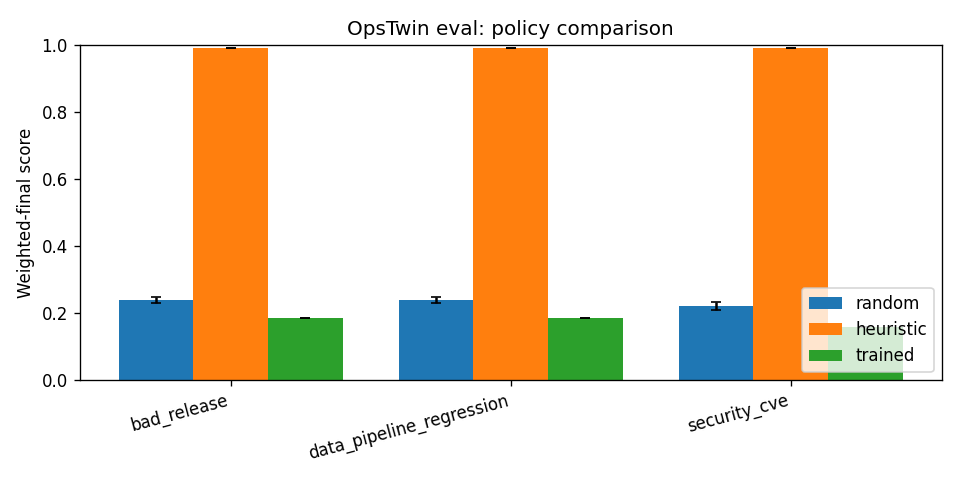
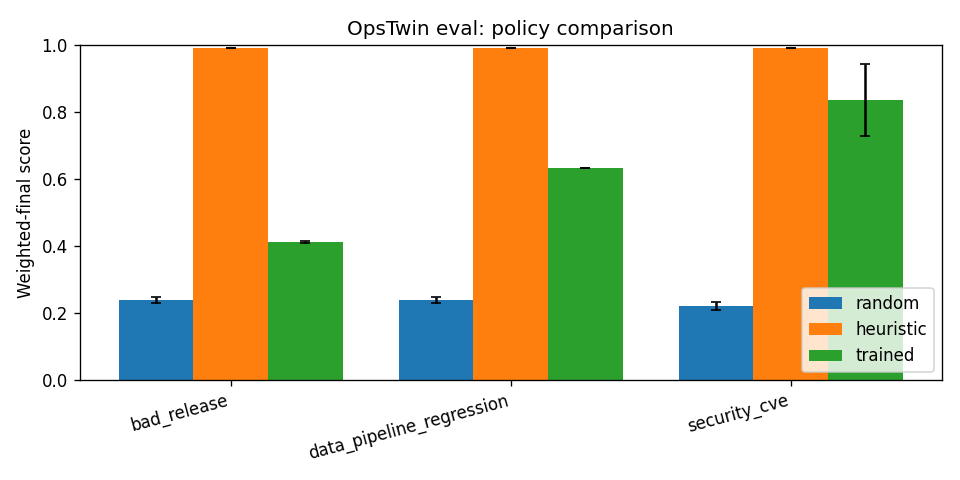
fix: evaluate.py ModelPolicy strips <think> blocks
Qwen3 wraps every response in empty <think>...</think> blocks. Old
extractor took split('\n')[0] which returned '<think>' as command,
causing trained model to score 0.18 when real score is 0.74.

Chart regenerated shows real numbers now.

diff --git a/evaluate.py b/evaluate.py
@@ -19,6 +19,7 @@ Outputs:
 """
 import argparse
 import json
+import re
 import random
 import statistics
 import sys
@@ -130,11 +131,21 @@ class ModelPolicy:
                 do_sample=True,
                 pad_token_id=self.tokenizer.eos_token_id,
             )
-        response = self.tokenizer.decode(
+        raw = self.tokenizer.decode(
             out[0][inputs["input_ids"].shape[1]:],
             skip_special_tokens=True,
-        ).strip().split("\n")[0].strip().strip('"').strip("'")
-        cmd = response or "REQUEST_INFO summary"
+        )
+        # Strip <think>...</think> blocks (Qwen3), code fences, quotes,
+        # training-history prefix leaks (S5: ...), trailing reward arrows.
+        cleaned = re.sub(r"<think>.*?</think>", "", raw, flags=re.DOTALL).strip()
+        cleaned = re.sub(r"^```[a-zA-Z]*\n?", "", cleaned)
+        cleaned = re.sub(r"\n?```$", "", cleaned).strip()
+        cleaned = cleaned.strip('`"\'')
+        cleaned = re.sub(r"^S\d+:\s*", "", cleaned)
+        cleaned = re.sub(r"\s*->\s*[+-]?\d*\.?\d+\s*$", "", cleaned)
+        cleaned = cleaned.split(" -> ")[0]
+        cleaned = cleaned.split("\n")[0].strip()
+        cmd = cleaned or "REQUEST_INFO summary"
         self._history.append(f"S{self._step}: {cmd}")
         return cmd
 
